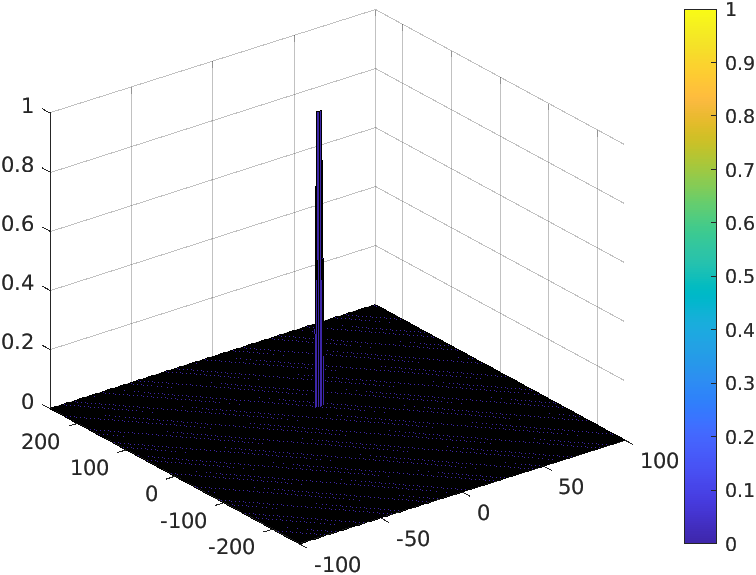
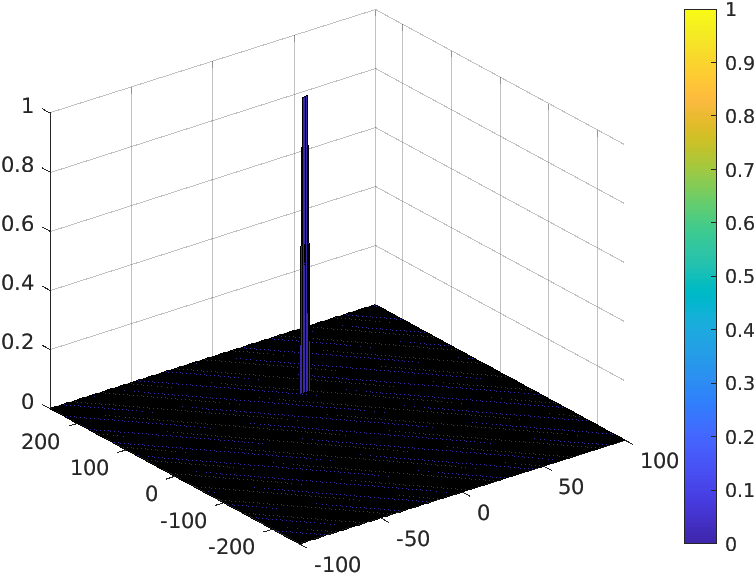
mod: take intto account the return time with a multiplication by two of the range the wave has to travel.

Changed region(s): [[0.3955, 0.1774, 0.4259, 0.7096]]

diff --git a/radar/radar-target-generation-and-detection.m b/radar/radar-target-generation-and-detection.m
@@ -65,7 +65,7 @@ for i=1:length(t)
     
     % *%TODO* :
     %For each time stamp update the Range of the Target for constant velocity. 
-    td(i) = (R + t(i) * v) / c;  % seconds
+    td(i) = (R + t(i) * v) * 2 / c;  % seconds
 
     % *%TODO* :
     %For each time sample we need update the transmitted and
